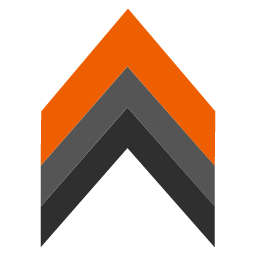
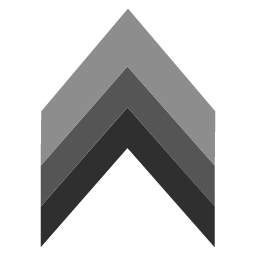
fix(branding,windows): restore 3 grayscale chevrons, remove powered-by and lower version card, and fix NSIS service packaging

Changed region(s): [[0.1562, 0.0312, 0.8438, 0.6562]]

diff --git a/flutter/lib/desktop/pages/desktop_home_page.dart b/flutter/lib/desktop/pages/desktop_home_page.dart
@@ -80,11 +80,6 @@ class _DesktopHomePageState extends State<DesktopHomePage>
     final isOutgoingOnly = bind.isOutgoingOnly();
     final children = <Widget>[
       if (!isOutgoingOnly) buildPresetPasswordWarning(),
-      if (bind.isCustomClient())
-        Align(
-          alignment: Alignment.center,
-          child: loadPowered(context),
-        ),
       Align(
         alignment: Alignment.center,
         child: loadLogo(),
@@ -440,13 +435,6 @@ class _DesktopHomePageState extends State<DesktopHomePage>
             () async {
           await rustDeskWinManager.closeAllSubWindows();
           bind.mainGotoInstall();
-        });
-      } else if (bind.mainIsInstalledLowerVersion()) {
-        return buildInstallCard(
-            "Status", "Your installation is lower version.", "Click to upgrade",
-            () async {
-          await rustDeskWinManager.closeAllSubWindows();
-          bind.mainUpdateMe();
         });
       }
     } else if (isMacOS) {

diff --git a/src/platform/windows.rs b/src/platform/windows.rs
@@ -460,11 +460,23 @@ fn service_main(arguments: Vec<OsString>) {
 
 pub fn start_os_service() {
     let name = crate::get_app_name();
-    if let Err(e) = windows_service::service_dispatcher::start(&name, ffi_service_main) {
-        let name_no_space = name.replace(" ", "");
-        if let Err(e2) = windows_service::service_dispatcher::start(&name_no_space, ffi_service_main) {
-            log::error!("start_service failed for '{}' ({}) and '{}' ({})", name, e, name_no_space, e2);
+    let name_no_space = name.replace(" ", "");
+    let candidates = [
+        name.as_str(),
+        name_no_space.as_str(),
+        "ElevaRemoteDesk",
+        "Eleva Remote Desk",
+        "RustDesk",
+    ];
+    let mut started = false;
+    for svc_name in &candidates {
+        if windows_service::service_dispatcher::start(svc_name, ffi_service_main).is_ok() {
+            started = true;
+            break;
         }
+    }
+    if !started {
+        log::error!("start_service failed for all candidates: {:?}", candidates);
     }
 }
 
@@ -2557,7 +2569,13 @@ fn get_uninstall_amyuni_idd() -> String {
 
 #[inline]
 pub fn is_self_service_running() -> bool {
-    is_service_running(&crate::get_app_name())
+    let name = crate::get_app_name();
+    let name_no_space = name.replace(" ", "");
+    is_service_running(&name)
+        || is_service_running(&name_no_space)
+        || is_service_running("ElevaRemoteDesk")
+        || is_service_running("Eleva Remote Desk")
+        || is_service_running("RustDesk")
 }
 
 pub fn is_service_running(service_name: &str) -> bool {

diff --git a/src/core_main.rs b/src/core_main.rs
@@ -29,6 +29,7 @@ macro_rules! my_println{
 /// If it returns [`Some`], then the process will continue, and flutter gui will be started.
 #[cfg(not(any(target_os = "android", target_os = "ios")))]
 pub fn core_main() -> Option<Vec<String>> {
+    crate::common::global_init();
     crate::load_custom_client();
     #[cfg(windows)]
     if !crate::platform::windows::bootstrap() {
